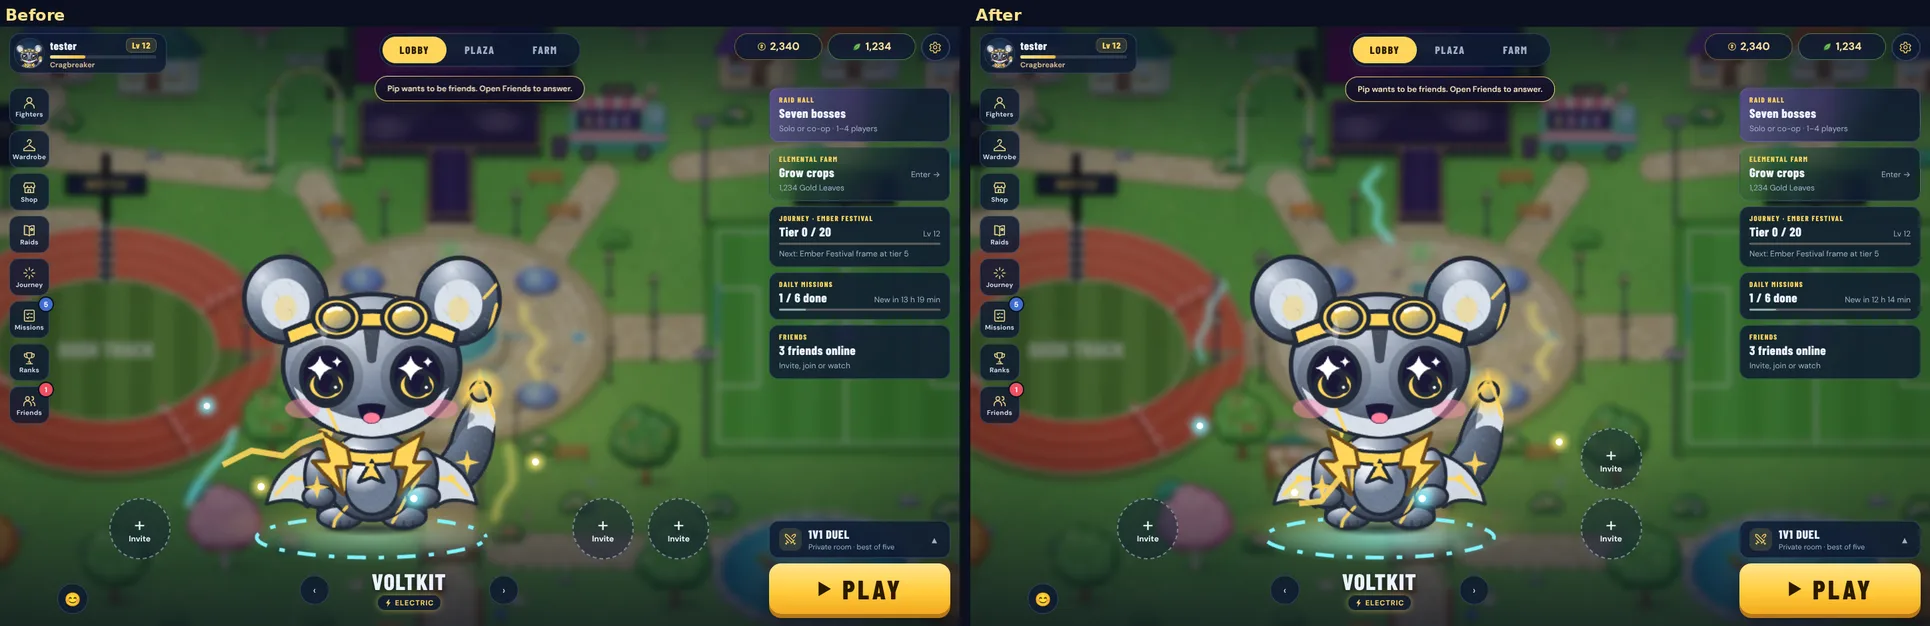
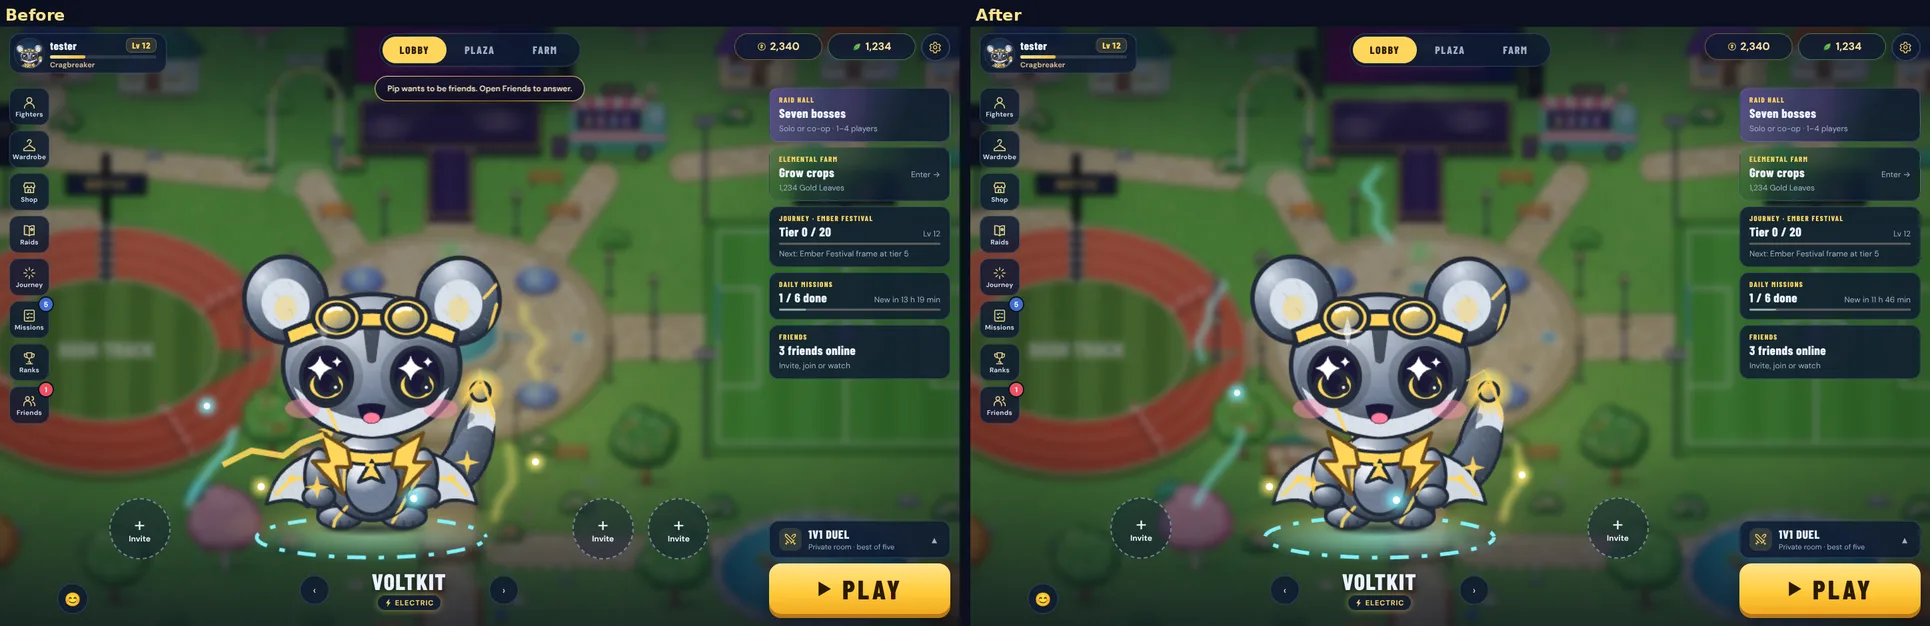
Lobby: the fourth party seat appears only once both side seats are taken
With three invite seats, one side of the fighter always held two. The
Lobby now shows one seat on each side; the third seat, above the right
one, appears once a friend stands in each side seat. The party still
allows four players (the server's PARTY_SIZE), and Friends can invite
at any time.

Every seat is now as wide as a friend's card with its content centred,
so an Invite circle and a friend line up with each other and keep the
same distance from the fighter.

lobby.spec checks the third seat is hidden with one friend, and with
two it appears straight above the right seat, clear of the fighter.

Claude-Session: https://claude.ai/code/session_01DkYiJpodyEbVqfpkaNSmxC

diff --git a/tests/visual/lobby.spec.ts b/tests/visual/lobby.spec.ts
@@ -337,7 +337,47 @@ test("a party shows friends beside you, and a party invitation joins it", async 
     await expect(
       page.locator("#lobby-slot-1 [data-lobby-action=invite]"),
     ).toBeVisible();
+    // With one friend, one seat on each side: the third waits.
+    await expect(page.locator("#lobby-slot-2")).toBeHidden();
     await snap(page, info, "lobby-party-844x390");
+    // A third player fills the right seat, and the fourth seat appears
+    // straight above it, clear of the fighter.
+    await page.evaluate(
+      ([me, pal]) =>
+        (window as any).__sock.fire("party", {
+          code: "PARTY2",
+          leader: me,
+          members: [
+            { id: me, name: "tester", character: "voltkit" },
+            { id: pal, name: "Pal", character: "tidefin" },
+            {
+              id: "66666666-6666-4666-8666-666666666666",
+              name: "Bo",
+              character: "voltkit",
+            },
+          ],
+        }),
+      [me, pal],
+    );
+    await expect(page.locator("#lobby-party-bar")).toContainText("Party · 3/4");
+    await expect(page.locator("#lobby-slot-1 .lobby-member")).toContainText(
+      "Bo",
+    );
+    const third = page.locator("#lobby-slot-2 [data-lobby-action=invite]");
+    await expect(third).toBeVisible();
+    const seats = await page.evaluate(() =>
+      ["#lobby-slot-1 > *", "#lobby-slot-2 > *", "#lobby-fighter"].map((s) => {
+        const b = document.querySelector(s)!.getBoundingClientRect();
+        return { l: b.left, t: b.top, r: b.right, b: b.bottom };
+      }),
+    );
+    const [right, above, fighter] = seats;
+    expect(
+      Math.abs((above.l + above.r) / 2 - (right.l + right.r) / 2),
+    ).toBeLessThanOrEqual(1);
+    expect(above.b).toBeLessThanOrEqual(right.t);
+    expect(above.l).toBeGreaterThanOrEqual(fighter.r);
+    await snap(page, info, "lobby-party-full-844x390");
     // A party invitation from someone else.
     await page.evaluate(
       (lead) =>

diff --git a/tests/visual/lobby-fighter-rig.spec.ts b/tests/visual/lobby-fighter-rig.spec.ts
@@ -85,7 +85,9 @@ for (const size of SIZES)
           party: box(".lobby-party"),
           fighter: box("#lobby-fighter"),
           plate: box(".lobby-nameplate"),
-          seats: [0, 1, 2].map((i) => box(`#lobby-slot-${i} > *`)),
+          seats: [0, 1].map((i) => box(`#lobby-slot-${i} > *`)),
+          third: getComputedStyle(document.getElementById("lobby-slot-2")!)
+            .display,
           rail: box(".lobby-rail"),
           cards: box(".lobby-cards"),
           play: box(".lobby-play"),
@@ -108,18 +110,18 @@ for (const size of SIZES)
       expect(plate.t).toBeGreaterThanOrEqual(fighter.b);
       const overlaps = (a: typeof stage, b: typeof stage) =>
         a.l < b.r && b.l < a.r && a.t < b.b && b.t < a.b;
-      // Balanced: the fighter and its nameplate share one axis, a seat stands
-      // the same distance from each side of it, and the third seat sits
-      // straight above the right one. No seat covers the fighter.
-      const [left, right, third] = fit.seats;
+      // Balanced: the fighter and its nameplate share one axis, and a seat
+      // stands the same distance from each side of it. Alone, there is no
+      // third seat (it appears above the right one once both are taken; see
+      // lobby.spec). No seat covers the fighter.
+      const [left, right] = fit.seats;
       const mid = (b: typeof stage) => (b.l + b.r) / 2;
       expect(Math.abs(mid(fighter) - mid(plate))).toBeLessThanOrEqual(1);
       expect(
         Math.abs(fighter.l - left.r - (right.l - fighter.r)),
       ).toBeLessThanOrEqual(1);
       expect(left.b).toBeCloseTo(right.b, 0);
-      expect(third.l).toBeCloseTo(right.l, 0);
-      expect(third.b).toBeLessThanOrEqual(right.t);
+      expect(fit.third).toBe("none");
       for (const seat of fit.seats) {
         expect(overlaps(seat, fighter)).toBe(false);
         expect(overlaps(seat, party) && seat.l >= party.l - 0.5).toBe(true);

diff --git a/apps/client/src/lobby-screen.ts b/apps/client/src/lobby-screen.ts
@@ -231,7 +231,7 @@ export function openLobby(options: LobbyOptions): LobbyHandle {
     <div class="lobby-slot-wrap" id="lobby-slot-0"></div>
     <figure class="lobby-fighter" id="lobby-fighter"><div class="lobby-fighter-art fighter-rig-stage" id="lobby-fighter-art" data-preview-look="%7B%7D" data-preview-action="idle"></div><span class="lobby-floor" aria-hidden="true"></span><output class="lobby-emote-bubble" id="lobby-emote-bubble" hidden></output></figure>
     <div class="lobby-slot-wrap" id="lobby-slot-1"></div>
-    <div class="lobby-slot-wrap lobby-slot-third" id="lobby-slot-2"></div>
+    <div class="lobby-slot-wrap lobby-slot-third" id="lobby-slot-2" hidden></div>
   </div>
   <div class="lobby-nameplate">
     <button type="button" class="lobby-step" data-lobby-step="-1" aria-label="Previous fighter">‹</button>
@@ -395,6 +395,10 @@ export function openLobby(options: LobbyOptions): LobbyHandle {
         partyKey = slots;
         for (let i = 0; i < 3; i++)
           $(`lobby-slot-${i}`).innerHTML = slotMarkup(view.party[i]);
+        // One seat on each side keeps the stage even; the third seat (above
+        // the right one) appears once both are taken. The server still
+        // allows four players, and Friends can invite at any time.
+        $("lobby-slot-2").hidden = view.party.length < 2;
       }
       $("lobby-party-bar").hidden = view.partySize < 2;
       $("lobby-party-size").textContent = `Party · ${view.partySize}/4`;

diff --git a/apps/client/src/lobby.css b/apps/client/src/lobby.css
@@ -151,7 +151,8 @@
 /* The party row takes all the height the stage has left (under the party
    bar, above the nameplate). The fighter stands in its middle column, on the
    same axis as the nameplate; one seat stands on each side of it, and the
-   third seat above the right one, so both sides keep the same width. The
+   third seat (shown once both are taken) above the right one, so both
+   sides keep the same width. The
    fighter grows into the row: as tall as the row, as wide as the row allows
    beside one seat on each side (a seat as wide as a friend's card), and no
    larger than the rig draws sharply (its canvas is 480 px wide). No empty
@@ -393,10 +394,18 @@
 }
 
 /* Party: members stand beside you; the bar above says how many. */
+/* Every seat is as wide as a friend's card, its content centred, so an
+   Invite circle and a friend line up with each other and keep the same
+   distance from the fighter. */
 .lobby-slot-wrap {
   display: flex;
   align-items: flex-end;
+  justify-content: center;
   flex: none;
+  width: var(--lobby-seat);
+}
+.lobby-slot-wrap[hidden] {
+  display: none;
 }
 .lobby-member {
   display: grid;
